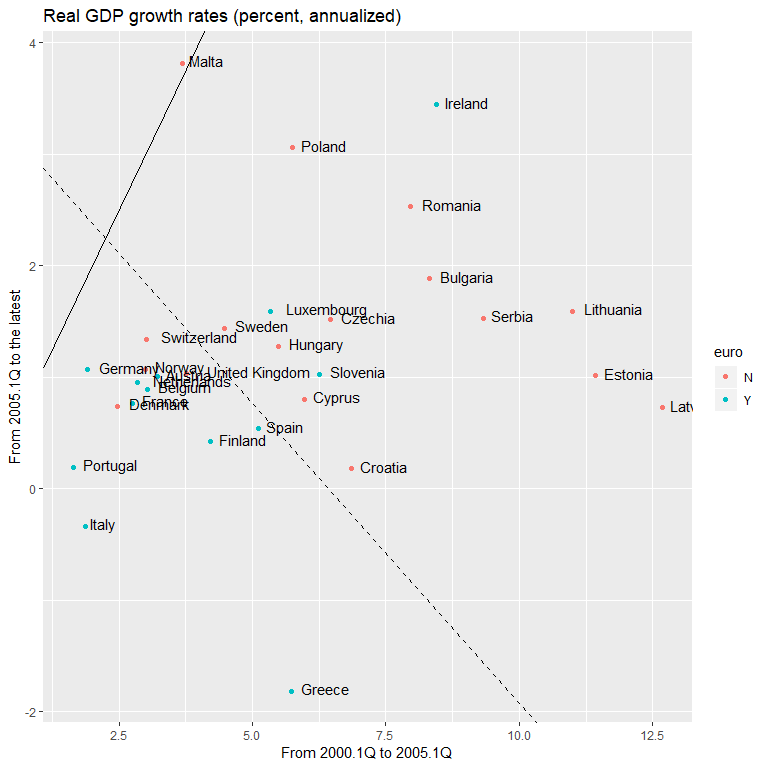
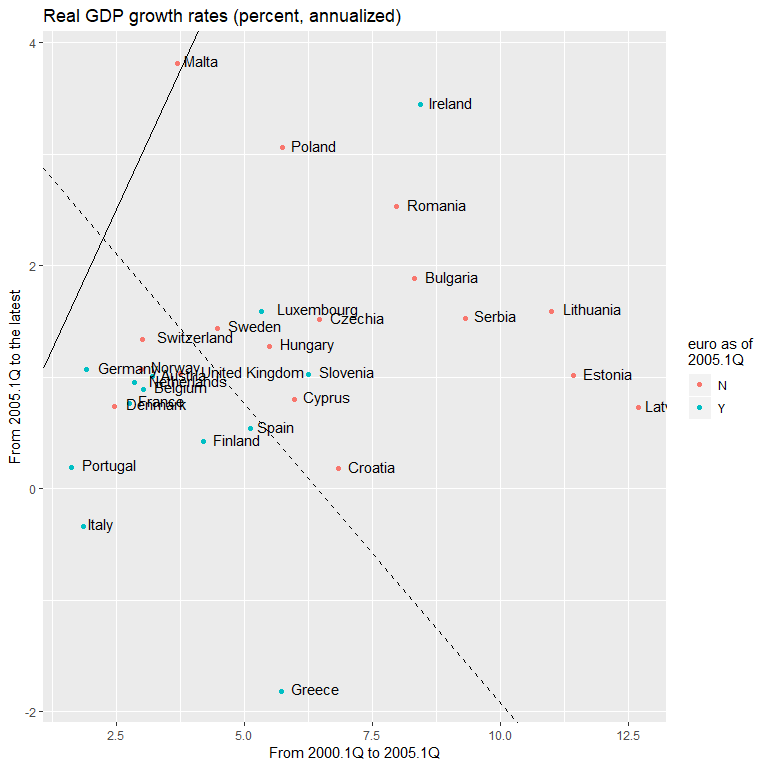
EU country code web scraping

diff --git a/README.md b/README.md
@@ -1,7 +1,7 @@
 European countries’ GDP, euro or not
 ================
 Mitsuo Shiota
-2019-4-12
+2019-04-11
 
   - [Summary](#summary)
   - [Libraries](#libraries)
@@ -16,6 +16,8 @@ Mitsuo Shiota
         Recession](#simple-comparison-of-recovery-from-the-great-recession)
       - [Before and after growth rates, and classifier: logistic
         regression](#before-and-after-growth-rates-and-classifier-logistic-regression)
+
+Updated: 2019-04-24
 
 ## Summary
 
@@ -86,10 +88,13 @@ I follow the order of [“Tutorial: Country codes and protocol
 order”](https://ec.europa.eu/eurostat/statistics-explained/index.php/Tutorial:Country_codes_and_protocol_order).
 
 ``` r
-country_codes_eu28 <- c("BE", "BG", "CZ", "DK", "DE", "EE", "IE",
-                        "EL", "ES", "FR", "HR", "IT", "CY", "LV",
-                        "LT", "LU", "HU", "MT", "NL", "AT", "PL", 
-                        "PT", "RO", "SI", "SK", "FI", "SE", "UK") 
+response <- read_html("https://ec.europa.eu/eurostat/statistics-explained/index.php/Tutorial:Country_codes_and_protocol_order")
+
+table <- response %>% 
+  html_nodes(xpath = "//body[@class='mediawiki ltr sitedir-ltr ns-0 ns-subject page-Tutorial_Country_codes_and_protocol_order skin-statexpflat action-view']/div[@class='container']/div[@class='row content-row']/div[@class='col-lg-12 col-md-12 col-sm-12 col-xs-12 content-col content article-content ']/div[@id='content']/div[@id='bodyContent']/div[@id='mw-content-text']/div[@id='articleContentPane']/div[@id='article-panel']/div[@class='panel-body']/div[@class='panel-body-content']/div[@class='content-section'][2]/table[@class='colheader FCK__ShowTableBorders']") %>% 
+  html_table()
+
+country_codes_eu28 <- table[[1]]$Code
 ```
 
 GDP data contain 3 countries outside EU, so I add them to codes.
@@ -423,7 +428,8 @@ gdp_gr %>%
   labs(
     title = "Real GDP growth rates (percent, annualized)",
     x = str_c("From ", quarter(START, with_year = TRUE), "Q to ", quarter(STD, with_year = TRUE), "Q"),
-    y = str_c("From ", quarter(STD, with_year = TRUE), "Q to the latest")
+    y = str_c("From ", quarter(STD, with_year = TRUE), "Q to the latest"),
+    color = str_c("euro as of\n", quarter(STD, with_year = TRUE), "Q")
   )
 ```
 
